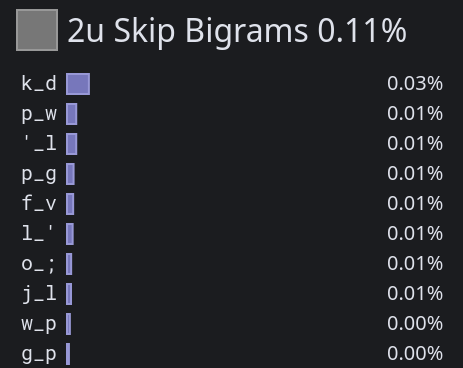
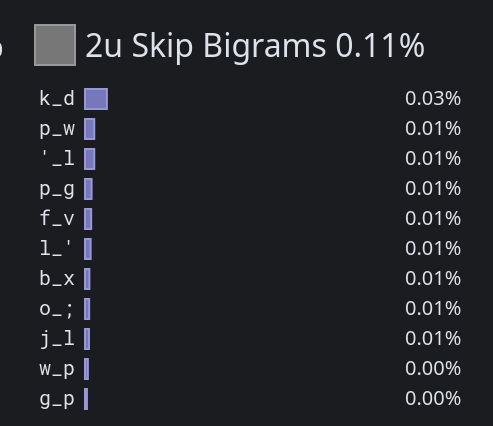
updated layout and stat

diff --git a/src/chapters/stats.md b/src/chapters/stats.md
@@ -6,59 +6,197 @@
 ![](../assets/heatmap.png)
 
 ## Oxeylyzer
-- No thumb key support
-- Highest finger speed is on right ring at 0.769
+Default [`local` branch](https://github.com/O-X-E-Y/oxeylyzer/commit/30c771b19c1d54b5b5d9da181692130515a6713c) setting with keyboard type set to `colstag`.
 
-![](../assets/oxey.png)
+- No thumb key support
+- Highest finger speed is on right pinky at 2.744
+- Pinky-Ring Bigrams: 1.768%
+
+```
+dusk
+x f d p q  j ' o u . 
+n s t c y  m h a e i 
+b v k g w  z l   / , 
+Sfb:  0.527%
+Dsfb: 5.013%
+Finger Speed: 17.650
+    [1.639, 1.451, 2.028, 2.630, 2.321, 2.202, 2.636, 2.744]
+Scissors: 0.325%
+Lsbs: 2.182%
+Pinky Ring Bigrams: 1.768%
+
+Inrolls: 19.912%
+Outrolls: 19.893%
+Total Rolls: 39.805%
+Onehands: 1.250%
+
+Alternates: 20.966%
+Alternates (sfs): 5.146%
+Total Alternates: 26.112%
+
+Redirects: 2.650%
+Redirects Sfs: 1.491%
+Bad Redirects: 0.276%
+Bad Redirects Sfs: 0.110%
+Total Redirects: 4.527%
+
+Bad Sfbs: 0.331%
+Sft: 0.010%
+
+Score: -1.522
+```
 
 ## Genkey
 - No thumb key support
-- Highest finger speed is on right index at 1.59
+- Highest finger speed is on right index at 1.55
 
-![](../assets/genkey.png)
+```
+dusk
+x f d p q  j ' o u . 
+n s t c y  m h a e i 
+b v k g w  z l ; / , 
+Missing characters: [r]
+Rolls (l): 18.62%
+	Inward: 14.71%
+	Outward: 3.91%
+Rolls (r): 31.79%
+	Inward: 10.62%
+	Outward: 21.16%
+Alternates: 33.26%
+Onehands: 1.59%
+Redirects: 5.81%
+Finger Speed (weighted): [0.74 0.55 0.73 1.39 1.55 0.88 1.28 1.16]
+Finger Speed (unweighted): [1.10 1.98 3.50 7.62 8.53 4.22 4.61 1.74]
+Highest Speed (weighted): 1.55 (RI)
+Highest Speed (unweighted): 8.53 (RI)
+Index Usage: 11.8% 12.6%
+SFBs: 0.496%
+DSFBs: 4.875%
+LSBs: 1.92%
+Top SFBs:
+	ue 0.129%	oa 0.075%	cy 0.032%	lm 0.025%
+	'm 0.024%	gy 0.023%	yp 0.022%	eu 0.020%
+
+Worst Bigrams:
+	ue 17.029	oa 11.602	ml 8.754	.i 7.824
+	i, 7.077	nb 6.907	dt 6.037	py 3.978
+
+Score: 27.00
+```
 
 ## Krillyzer
 - Krillyzer is mainly used for analyzing SFS and SFBS distance
-- SFS distance at 1.149
-- SFB distance at 1.337
+- SFS distance at 1.151
+- SFB distance at 1.335
 
-![](../assets/krillyzer.png)
+```
+Dusk
+  x f d p q j ' o u .
+  n s t c y m h a e i
+  b v k g w z l _ / ,
+  r
+
+SFB              SFS              LSB             
+  Freq  0.486%     Freq  4.920%     Freq  1.141%     
+  Dist  1.335      Dist  1.151      Dist  2.081      
+
+Rolls 48.945%
+  Inroll   20.874%
+  Outroll  28.071%
+
+Trigrams
+  Alternates 33.083%
+  Redirects   4.878%
+  Onehands    1.730%
+
+Rows
+  Top    20.496%
+  Home   54.367%
+  Bottom 10.982%
+  Center  7.734%
+
+Index        Middle       Ring         Pinky       
+  L 10.61%     L 13.42%     L  8.74%     L  8.22%     
+  R 12.78%     R 15.12%     R 15.04%     R  9.65%     
+
+Hand Balance
+  Left   41.003%
+  Right  52.576%
+  Thumb   5.137%
+```
 
 ## Keysolve
 - It only support right thumb key, so it needs to be mirrored.
 - I mainly look at HSB, HSS, FSB, and FSS here.
+  - HSB: 2.09%
+  - HSS: 4.68%
+  - FSB: 0.02%
+  - FSS: 0.11%
 
 ![](../assets/keysolve.png)
 
 ## Cmini
 ```
-dusk
-  b f d p q  j ' o u .
+dusk (feminist_chemo_doable)
+  x f d p q  j ' o u .
   n s t c y  m h a e i
-  z v k g w  x l _ / ,
+  b v k g w  z l _ / ,
           r                 
 
 MONKEYRACER:
-  Alt: 28.22%
-  Rol: 47.95%   (In/Out: 20.92% | 27.02%)
-  One:  1.75%   (In/Out:  0.74% |  1.02%)
-  Rtl: 49.70%   (In/Out: 21.66% | 28.04%)
-  Red:  3.32%   (Bad:     0.32%)
+  Alt: 28.16%
+  Rol: 47.99%   (In/Out: 21.00% | 26.99%)
+  One:  1.77%   (In/Out:  0.75% |  1.02%)
+  Rtl: 49.76%   (In/Out: 21.75% | 28.02%)
+  Red:  3.33%   (Bad:     0.32%)
 
   SFB: 0.38%
-  SFS: 3.77%    (Red/Alt: 1.07% | 2.70%)
+  SFS: 3.76%    (Red/Alt: 1.08% | 2.68%)
 
-  LH/RH: 46.90% | 53.10%
+  LH/RH: 46.96% | 53.04%
 ```
 
 ## a200
 - Right thumb space setting
 
-![](../assets/a200.png)
+```
+MONKEYTYPE-QUOTES.JSON
+thumb: RT             
 
+Dusk
+x f d w q  j ' o u . 
+n s t c y  m h a e i 
+b v k g p  z l _ / , 
+
+Trigrams
+========
+Alternates - Total: 33.07%   
+     Rolls - Total: 43.74%   In: 21.88%   Out: 21.86%   Ratio:   1.00  
+  Onehands - Total:  3.55%   In:  0.70%   Out:  2.85%   Ratio:   0.25  
+ Redirects - Total:  7.40%   
+   Unknown - Total:  0.00%   
+
+Same Finger
+===========
+       SFB - 1.68%         DSFB - 4.17%   
+       SFT - 0.02%          SFR - 6.37%   
+
+Finger Use
+==========
+      Left - Total: 38.07%   LP:  6.84%   LR:  7.20%   LM: 11.09%   LI: 12.95%   
+     Right - Total: 43.42%   RP:  8.07%   RR: 12.35%   RM: 12.47%   RI: 10.54%   
+     Thumb - Total: 18.50%   
+
+Row Use
+=======
+       Top - 23.02%         Home - 63.61%       Bottom - 13.37%
+```
 ## Cyanophage
 - Its finger usage doesn't include the thumb `R` or space.
 - It was speculated that its SFS include space, so it is much lower than other tools.
+- SFB: 0.39%
+- SFS: 2.16%
+- LSB: 1.52%
 
 ![](../assets/cyan.png)
 
@@ -74,48 +212,46 @@ MONKEYRACER:
 ## Finger Usage
 - `Dusk` is right-hand heavy.
 
-- If you are of the belief that thumb shouldn't count, then its `L:R = 38.81:54.76 = 41.48:58.52`, which is about as imbalanced as `Canary-ortho` at `42.24:57.76`.
+- If you are of the belief that thumb shouldn't count, then its `L:R = 38.86:54.71 = 41.53:58.47`, which is about as imbalanced as `Canary-ortho` at `42.24:57.76`.
 
-- If you are of the belief that thumb should count, then it is even worse than `41.48:58.52` because space is by far the most common letter (more than `E`).
+- If you are of the belief that thumb should count, then it is even worse than `41.53:58.47` because space is by far the most common letter (more than `E`).
 ```
-dusk (usage)
-  b f d p q  j ' o u .
+dusk (usage) (feminist_chemo_doable) (7 likes)
+  x f d p q  j ' o u .
   n s t c y  m h a e i
-  z v k g w  x l _ / ,
+  b v k g w  z l _ / ,
           r                 
 
 MONKEYRACER:
-  LI: 10.21%    RI: 13.35%
+  LI: 10.21%    RI: 13.30%
   LM: 12.02%    RM: 15.25%
   LR:  8.05%    RR: 16.58%
-  LP:  8.53%    RP:  9.58%
+  LP:  8.58%    RP:  9.58%
 
   LT: 6.44%
 
   Total: 100.00%
 ```
 ## SFS Finger Distribution (Cmini)
-- The total 3.98% is actually a more accurate number than the Cmini stat above due to some lower/upper case conversion issues in Cmini.
+- The total 3.97% is actually a more accurate number than the Cmini stat above due to some lower/upper case conversion issues in Cmini.
 
-- No finger gets over 1%.
-
-- Right index taking the most load at 0.98%, but it really only handles `HLM` as the other 3 keys are low frequency.
+- Right index taking the most load at 0.97%, but it really only handles `HLM` as the other 3 keys are infrequent.
 ```
 dusk (sfs)
-  b f d p q  j ' o u .
+  x f d p q  j ' o u .
   n s t c y  m h a e i
-  z v k g w  x l _ / ,
+  b v k g w  z l _ / ,
           r                 
 
 MONKEYRACER:
-  LI:  0.63%    RI:  0.98%
+  LI:  0.63%    RI:  0.97%
   LM:  0.45%    RM:  0.54%
   LR:  0.25%    RR:  0.64%
   LP:  0.13%    RP:  0.37%
 
   LT: 0.00%
 
-Total: 3.98%
+  Total: 3.97%
 ```
 ## SFB Finger Distribution (Cmini)
 - The total 0.48% is actually a more accurate number than the Cmini stat above due to some lower/upper case conversion issues in Cmini.
@@ -125,9 +261,9 @@ Total: 3.98%
 - The majority of SFB for right index is attributed by `'m`, which is designed to be alted (`'l` too).
 ```
 dusk (sfb)
-  b f d p q  j ' o u .
+  x f d p q  j ' o u .
   n s t c y  m h a e i
-  z v k g w  x l _ / ,
+  b v k g w  z l _ / ,
           r                 
 
 MONKEYRACER:
@@ -136,5 +272,5 @@ MONKEYRACER:
   LR:  0.02%    RR:  0.13%
   LP:  0.01%    RP:  0.00%
 
-Total: 0.48%
+  Total: 0.48%
 ```

diff --git a/src/chapters/motivation.md b/src/chapters/motivation.md
@@ -3,7 +3,7 @@
 As a [Canary-ortho](https://github.com/Apsu/Canary) user for 14 months and reached about 140 wpm on MonkeyType, its flaws - high SFS and high index workload - start to bother me. 
 
 ```
-=== Canary Ortho ===
+--- Canary Ortho ---
 
 w l y p b  z f o u '
 c r s t g  m n e i a

diff --git a/src/chapters/layout.md b/src/chapters/layout.md
@@ -8,9 +8,9 @@
 
 ### ACSII
 ```
-z f d p q  j ' o u .
+x f d p q  j ' o u .
 n s t c y  m h a e i
-b v k g w  x l _ / ,
+b v k g w  z l _ / ,
         r   
 ```
 
